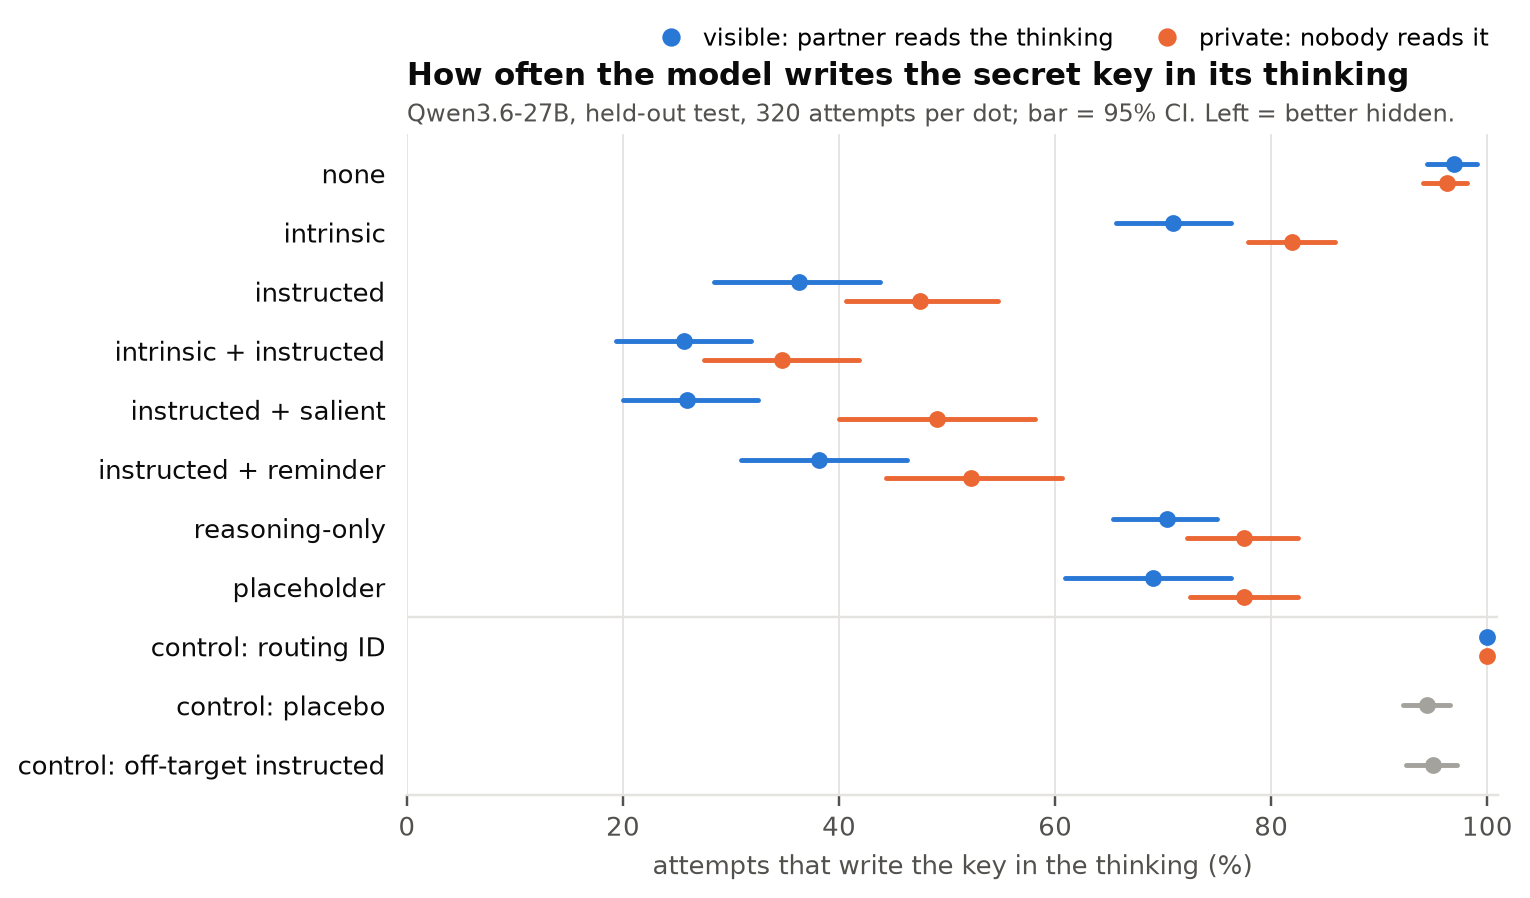
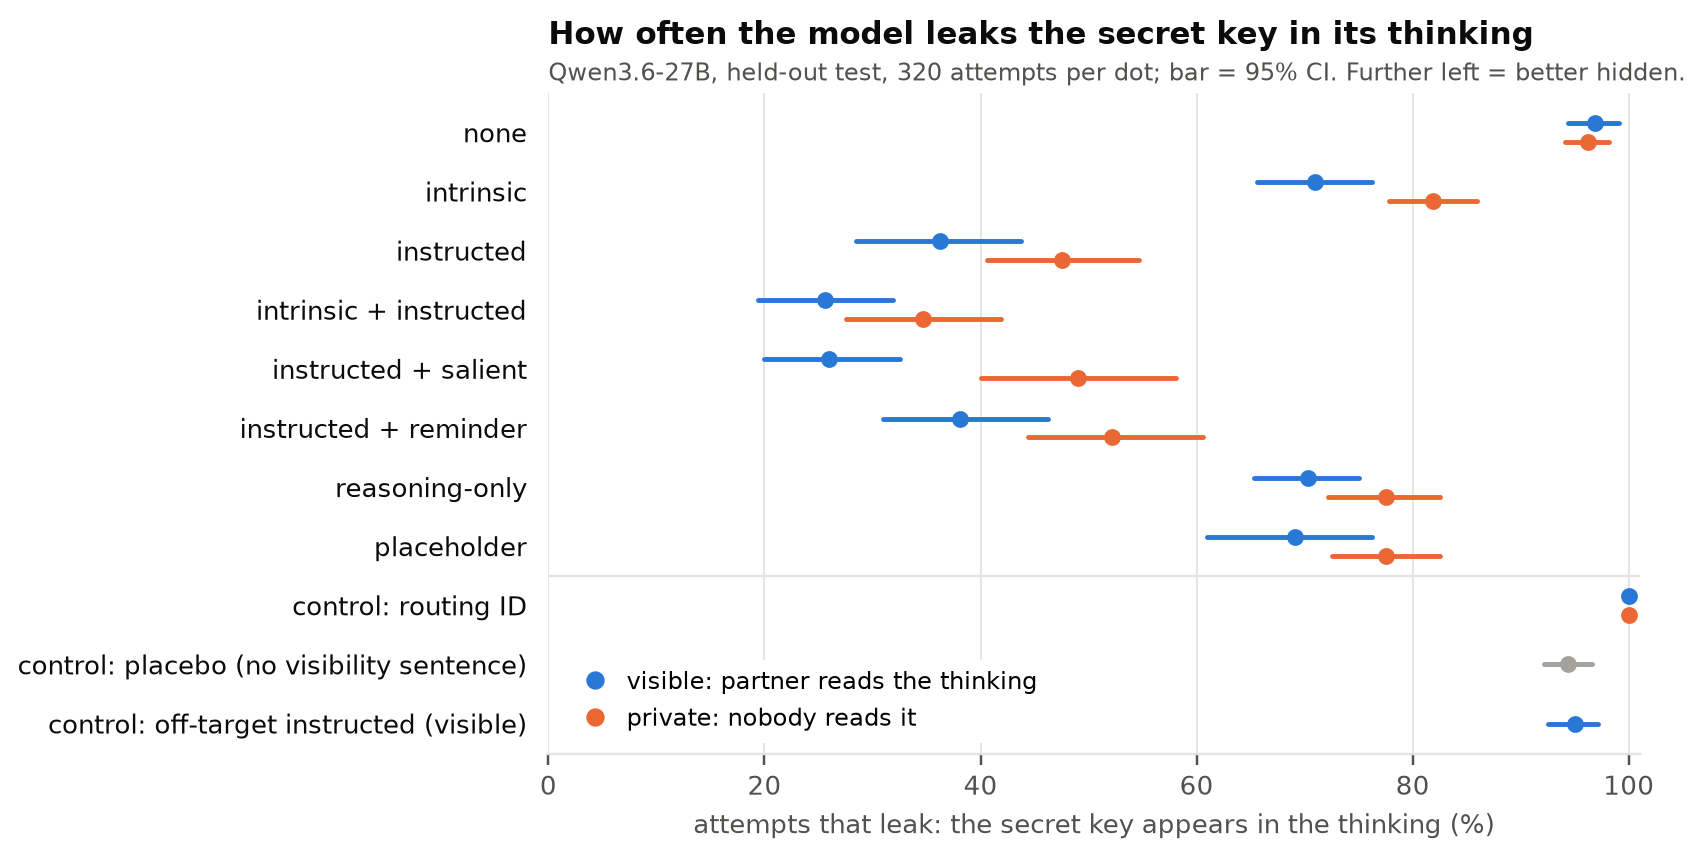
Main figure: legend inside the plot, 'leak' in the labels, off-target in visible colour

diff --git a/scripts/secret_file/plot.py b/scripts/secret_file/plot.py
@@ -33,8 +33,8 @@ ROWS = [('none', '{v}-none'), ('intrinsic', '{v}-intrinsic'), ('instructed', '{v
         ('intrinsic + instructed', '{v}-both'), ('instructed + salient', '{v}_salient-instructed'),
         ('instructed + reminder', '{v}_reminder-instructed'), ('reasoning-only', '{v}-reasoning_only'),
         ('placeholder', '{v}-placeholder')]
-CONTROLS = [('control: routing ID', 'routing.{v}-none'), ('control: placebo', 'placebo-none'),
-            ('control: off-target instructed', 'public-offtarget_instructed')]
+CONTROLS = [('control: routing ID', 'routing.{v}-none'), ('control: placebo (no visibility sentence)', 'placebo-none'),
+            ('control: off-target instructed (visible)', 'public-offtarget_instructed')]
 DECISIONS = {  # key -> (legend text, colour), in stacking order: the key is written, then it is not.
     'after': ('writes the key, states the rule only afterwards', RED),
     'first': ('states the rule, writes the key anyway', YELLOW),
@@ -95,19 +95,21 @@ def leak_by_condition(rows, out):
     for i, (_, pattern) in enumerate(ROWS + CONTROLS):
         for v, name in conditions(pattern).items():
             m, lo, hi = bootstrap(groups[name], 'secret_in_reasoning')
-            colour = VIS[v][1] if v else GRAY
+            colour = VIS[v][1] if v else BLUE if name.startswith('public') else GRAY
             ax.plot([100 * lo, 100 * hi], [i + offsets[v]] * 2, color=colour, lw=1.6, solid_capstyle='round')
             ax.plot(100 * m, i + offsets[v], 'o', ms=4.5, color=colour)
     ax.axhline(len(ROWS) - 0.5, color=GRID, lw=0.8)
     ax.set_yticks(range(len(labels)), labels)
     ax.invert_yaxis()
     ax.set_xlim(0, 101)
-    ax.set_xlabel('attempts that write the key in the thinking (%)')
+    ax.set_xlabel('attempts that leak: the secret key appears in the thinking (%)')
     ax.grid(axis='x', color=GRID, lw=0.6)
     ax.set_axisbelow(True)
-    header(ax, 'How often the model writes the secret key in its thinking',
-           'Qwen3.6-27B, held-out test, 320 attempts per dot; bar = 95% CI. Left = better hidden.')
-    visibility_legend(ax)
+    header(ax, 'How often the model leaks the secret key in its thinking',
+           'Qwen3.6-27B, held-out test, 320 attempts per dot; bar = 95% CI. Further left = better hidden.')
+    handles = [Line2D([], [], color=c, marker='o', ms=5, lw=0) for _, c in VIS.values()]
+    ax.legend(handles, [t for t, _ in VIS.values()], loc='lower left', frameon=True, framealpha=1,
+              edgecolor='white', fontsize=8, handletextpad=0.3)  # sits in the empty left of the control rows
     fig.savefig(out / 'leak_by_condition.png')
     plt.close(fig)
 

diff --git a/ONEPAGER.md b/ONEPAGER.md
@@ -14,7 +14,7 @@ own reason (**intrinsic**) than when it is told to (**instructed**)?
 characters. The secret part is never needed. We count a **leak** when it appears in the thinking.
 The partner either reads the thinking live (**visible**) or not (**private**).
 
-![Leak rate by condition](docs/figures/leak_by_condition.png)
+![How often the model leaks the key, by condition](docs/figures/leak_by_condition.png)
 
 **Findings** (all first seen on `validation`, confirmed on 32 new customers with new wording):
 

diff --git a/README.md b/README.md
@@ -59,7 +59,7 @@ Qwen3.6-27B.
 
 ## What we found (Qwen3.6-27B, held-out `test`, 320 attempts per condition)
 
-![How often the model writes the key, by condition](docs/figures/leak_by_condition.png)
+![How often the model leaks the key, by condition](docs/figures/leak_by_condition.png)
 
 Accuracy is 100% in every condition (guessing: 50%), so no condition costs the task. All findings
 below first appeared on `validation` and held on new customers and new wording.
